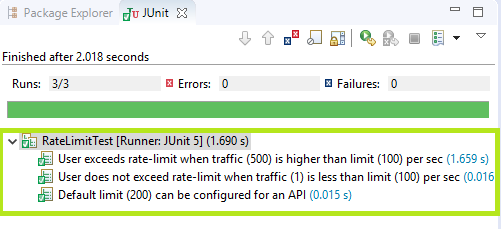
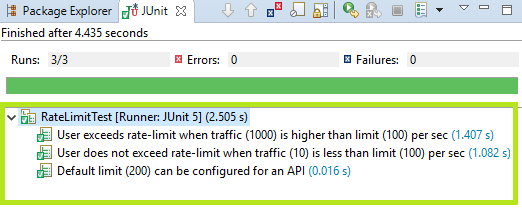
Updated images

diff --git a/src/test/java/com/abc/ratelimiter/RateLimitTest.java b/src/test/java/com/abc/ratelimiter/RateLimitTest.java
@@ -23,11 +23,10 @@ public class RateLimitTest {
 	private static Logger logger = Logger.getLogger(RateLimitTest.class.getName());
 
 	@Test
-	@DisplayName("User exceeds rate-limit when traffic (500) is higher than limit (100) per sec")
+	@DisplayName("User exceeds rate-limit when traffic (1000) is higher than limit (100) per sec")
 	public void testUserExceededRateLimit() throws InterruptedException {
 
 		long iterations = 1000; // Send 1000 requests without any sleep. Default rate-limit is 100 hence this should fail
-		long sleepTime = 0; // Give a sleep time of 0 ms for example to pump traffic without any delay
 
 		List<RateLimitException> rateLimitExceptions = new ArrayList<RateLimitException>();
 
@@ -40,22 +39,21 @@ public class RateLimitTest {
 				rateLimit.checkIfUserExceededRateLimit(userID);
 			} catch (RateLimitException rateLimitException) {
 				logger.warning("Rate Limit exceeed for user '" + rateLimitException.getUserID() + "' for API '"
-						+ rateLimitException.getAppID() + "'. Rate limit for API '" + rateLimitException.getRateLimit()
+						+ rateLimitException.getAPIid() + "'. Rate limit for API '" + rateLimitException.getRateLimit()
 						+ "'");
 				rateLimitExceptions.add(rateLimitException);
 			}
-			Thread.sleep(sleepTime);
 		}
 		assertNotEquals(rateLimitExceptions.size(), 0);
 
 	}
 
 	@Test
-	@DisplayName("User does not exceed rate-limit when traffic (1) is less than limit (100) per sec")
+	@DisplayName("User does not exceed rate-limit when traffic (10) is less than limit (100) per sec")
 	public void testUserDoesNotExceededRateLimit() throws InterruptedException {
 
-		long iterations = 1; // Number of requests in test
-		long sleepTime = 1; // Give a sleep time of 1 ms for example to pump traffic every 1milliseconds
+		long iterations = 10; // Send 10 requests 
+		long sleepTime = 100; // Give a sleep time of 100ms to achieve tps of 10  
 
 		List<RateLimitException> rateLimitExceptions = new ArrayList<RateLimitException>();
 
@@ -68,7 +66,7 @@ public class RateLimitTest {
 				rateLimit.checkIfUserExceededRateLimit(userID);
 			} catch (RateLimitException rateLimitException) {
 				logger.warning("Rate Limit exceeed for user '" + rateLimitException.getUserID() + "' for API '"
-						+ rateLimitException.getAppID() + "'. Rate limit for API '" + rateLimitException.getRateLimit()
+						+ rateLimitException.getAPIid() + "'. Rate limit for API '" + rateLimitException.getRateLimit()
 						+ "'");
 				rateLimitExceptions.add(rateLimitException);
 			}

diff --git a/src/main/java/com/abc/ratelimiter/exception/RateLimitException.java b/src/main/java/com/abc/ratelimiter/exception/RateLimitException.java
@@ -13,21 +13,21 @@ public class RateLimitException extends Exception {
 	 */
 	private static final long serialVersionUID = 1L;
 	
-	private String appID;
+	private String apiID;
 	
 	private long rateLimit;
 	
 	private String userID;
 
-	public RateLimitException(String errorMessage, String appID, Long rateLimit, String userID) {
+	public RateLimitException(String errorMessage, String apiID, Long rateLimit, String userID) {
 		super(errorMessage);
-		this.appID = appID;
+		this.apiID = apiID;
 		this.rateLimit = rateLimit;
 		this.userID = userID;
 	}
 
-	public String getAppID() {
-		return appID;
+	public String getAPIid() {
+		return apiID;
 	}
 
 	public Long getRateLimit() {
